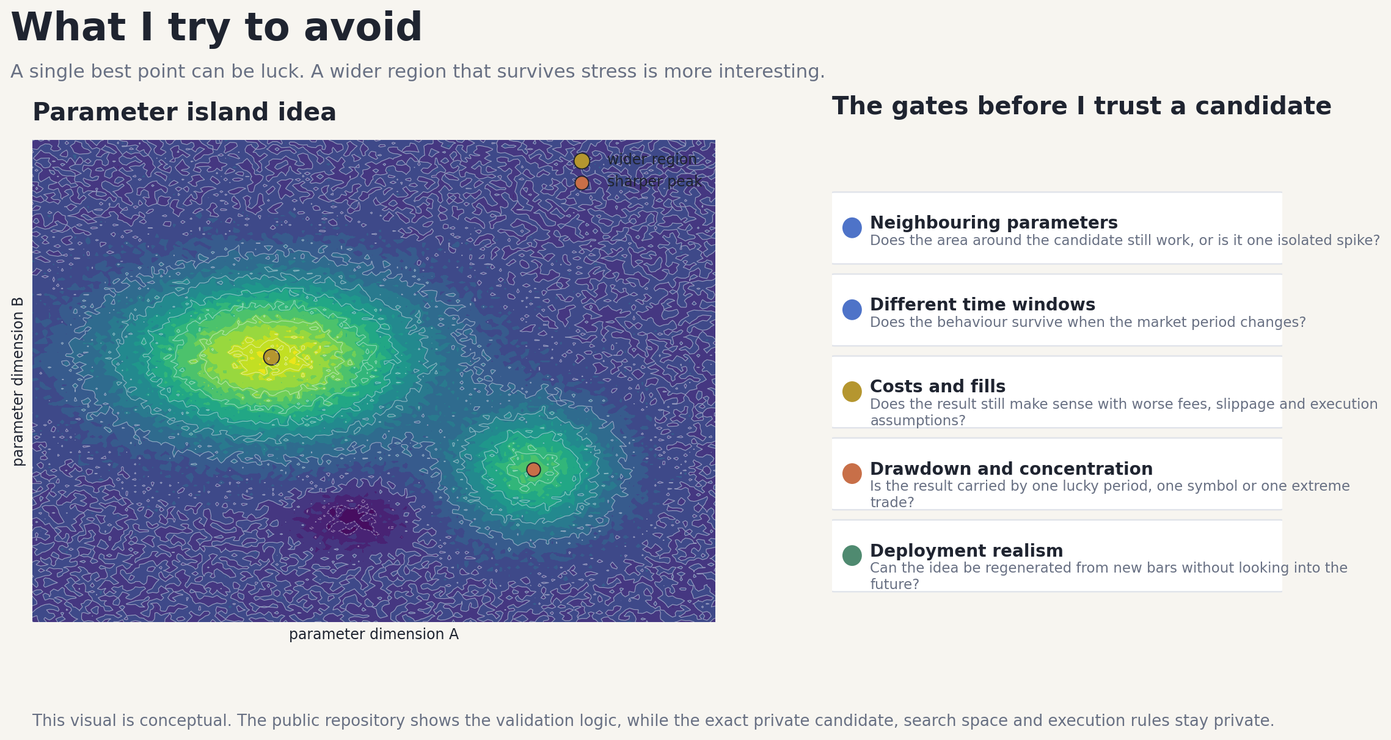
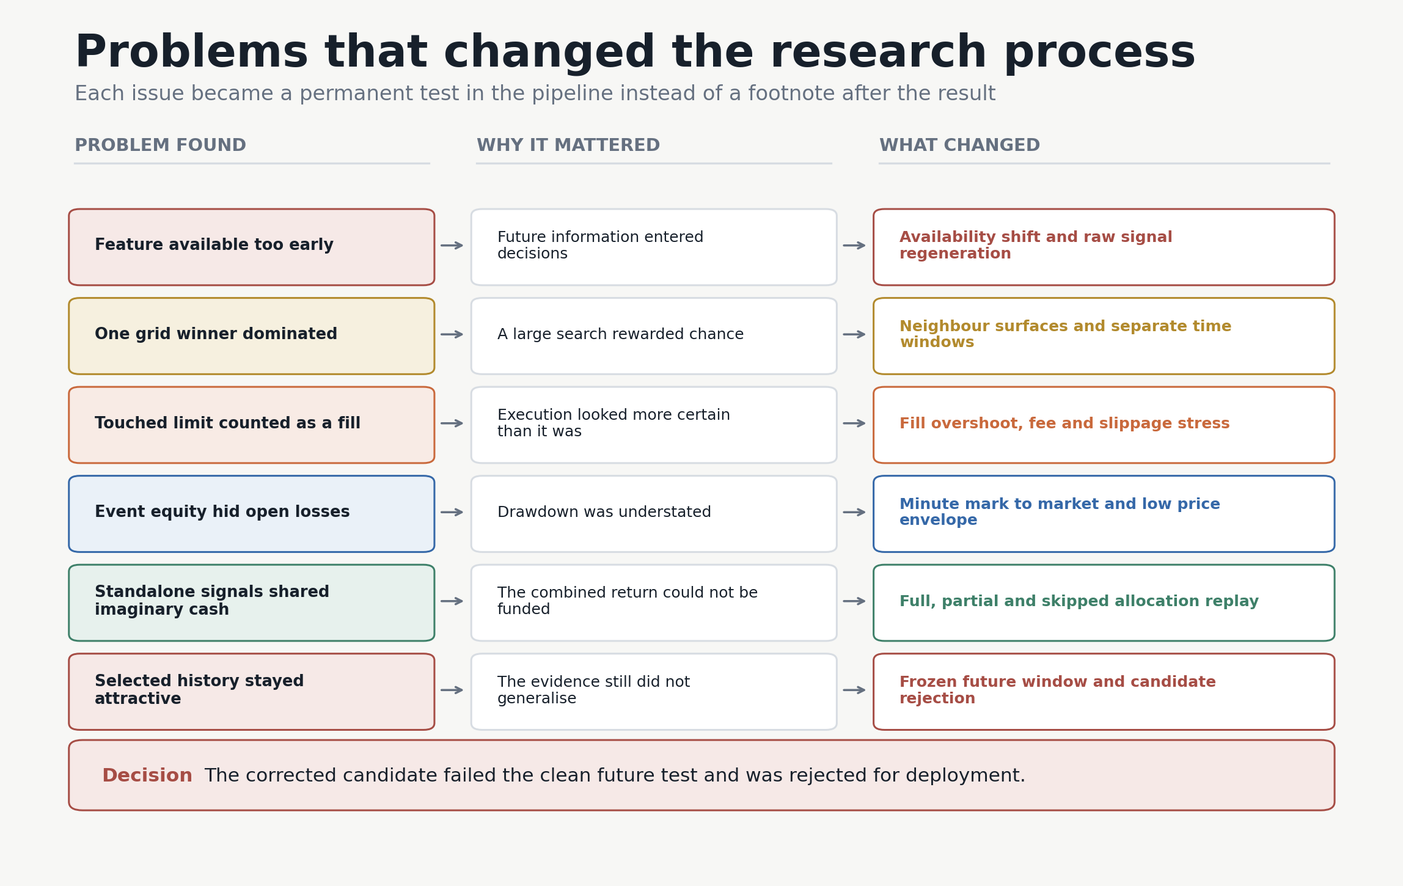
Reframe project around research lessons and scale

diff --git a/tools/build_readme_visuals.py b/tools/build_readme_visuals.py
@@ -1,0 +1,265 @@
+from __future__ import annotations
+
+from pathlib import Path
+from textwrap import fill
+
+import matplotlib.pyplot as plt
+from matplotlib.patches import FancyBboxPatch
+
+
+ROOT = Path(__file__).resolve().parents[1]
+OUTPUT = ROOT / "reports" / "readme_main_showcase"
+
+BG = "#f7f7f5"
+PAPER = "#ffffff"
+INK = "#17202b"
+MUTED = "#657080"
+LINE = "#d7dce2"
+BLUE = "#3568a8"
+BLUE_LIGHT = "#eaf1f8"
+GOLD = "#b28a2d"
+GOLD_LIGHT = "#f6f0df"
+ORANGE = "#c9693c"
+ORANGE_LIGHT = "#f8ebe5"
+GREEN = "#3e8069"
+GREEN_LIGHT = "#e7f1ed"
+RED = "#a64d45"
+RED_LIGHT = "#f6e9e7"
+
+
+def setup() -> None:
+    OUTPUT.mkdir(parents=True, exist_ok=True)
+    plt.rcParams.update(
+        {
+            "font.family": "DejaVu Sans",
+            "figure.facecolor": BG,
+            "axes.facecolor": BG,
+            "text.color": INK,
+        }
+    )
+
+
+def box(ax, x, y, w, h, face=PAPER, edge=LINE, radius=0.012, linewidth=1.2):
+    patch = FancyBboxPatch(
+        (x, y),
+        w,
+        h,
+        boxstyle=f"round,pad=0.004,rounding_size={radius}",
+        transform=ax.transAxes,
+        facecolor=face,
+        edgecolor=edge,
+        linewidth=linewidth,
+    )
+    ax.add_patch(patch)
+    return patch
+
+
+def save(fig, name: str) -> None:
+    fig.savefig(OUTPUT / name, dpi=180, facecolor=BG, bbox_inches="tight", pad_inches=0.18)
+    plt.close(fig)
+
+
+def draw_system_overview() -> None:
+    fig, ax = plt.subplots(figsize=(16, 9))
+    ax.set_xlim(0, 1)
+    ax.set_ylim(0, 1)
+    ax.axis("off")
+
+    ax.text(0.045, 0.935, "Adaptive parameter optimisation research system", fontsize=29, fontweight="bold")
+    ax.text(
+        0.045,
+        0.895,
+        "Selected view of a larger project built around traceable data, causal timing and tests that can reject a candidate",
+        fontsize=13.5,
+        color=MUTED,
+    )
+
+    scale_cards = [
+        ("~500 GB", "research workspace", BLUE, BLUE_LIGHT),
+        ("~5 days", "continuous cloud compute", GOLD, GOLD_LIGHT),
+        ("second and minute data", "multiple markets and timeframes", GREEN, GREEN_LIGHT),
+    ]
+    card_x = [0.045, 0.36, 0.675]
+    for x, (value, label, color, light) in zip(card_x, scale_cards):
+        box(ax, x, 0.775, 0.28, 0.085, face=light, edge=color, radius=0.01)
+        value_size = 16.5 if value == "second and minute data" else 18
+        ax.text(x + 0.018, 0.825, value, fontsize=value_size, fontweight="bold", color=color, va="center")
+        ax.text(x + 0.018, 0.793, label, fontsize=10.5, color=MUTED, va="center")
+
+    stages = [
+        ("DATA", "Official archives\nChecksums and timestamps\nGap and bar validation", BLUE, BLUE_LIGHT),
+        ("SEARCH", "Reusable caches\nDeterministic IDs\nRestartable stages", GOLD, GOLD_LIGHT),
+        ("SIMULATION", "Causal signal timing\nCosts and fill stress\nShared cash replay", ORANGE, ORANGE_LIGHT),
+        ("VALIDATION", "Neighbour surfaces\nSeparate time windows\nRisk and concentration", GREEN, GREEN_LIGHT),
+        ("DECISION", "Frozen configurations\nBurned evaluation periods\nPromote, revise or reject", BLUE, BLUE_LIGHT),
+    ]
+    xs = [0.045, 0.235, 0.425, 0.615, 0.805]
+    for index, (x, stage) in enumerate(zip(xs, stages)):
+        title, detail, color, light = stage
+        box(ax, x, 0.42, 0.15, 0.255, face=PAPER, edge=LINE, radius=0.012)
+        box(ax, x + 0.012, 0.615, 0.126, 0.045, face=light, edge=color, radius=0.008)
+        ax.text(x + 0.075, 0.637, title, fontsize=11, fontweight="bold", color=color, ha="center", va="center")
+        ax.text(x + 0.075, 0.575, detail, fontsize=9.4, color=INK, ha="center", va="top", linespacing=1.65)
+        if index < len(stages) - 1:
+            ax.annotate(
+                "",
+                xy=(xs[index + 1] - 0.008, 0.548),
+                xytext=(x + 0.158, 0.548),
+                xycoords=ax.transAxes,
+                arrowprops=dict(arrowstyle="->", color=MUTED, lw=1.6),
+            )
+
+    ax.text(0.045, 0.35, "The problems that forced the system to change", fontsize=14.5, fontweight="bold")
+    problems = [
+        ("Data gaps", "Invalidate features until a full window exists"),
+        ("Future information", "Shift features to their true availability time"),
+        ("Lucky optima", "Compare surfaces instead of one point"),
+        ("Optimistic fills", "Stress fills, fees and slippage"),
+        ("Imaginary capital", "Replay full, partial and skipped funding"),
+    ]
+    for x, (problem, response) in zip(xs, problems):
+        ax.plot([x + 0.006, x + 0.006], [0.195, 0.302], transform=ax.transAxes, color=ORANGE, lw=3)
+        ax.text(x + 0.018, 0.292, problem, fontsize=11.5, fontweight="bold", va="top")
+        ax.text(x + 0.018, 0.255, fill(response, width=25), fontsize=8.7, color=MUTED, va="top", linespacing=1.35)
+
+    ax.text(
+        0.045,
+        0.105,
+        "The difficult part was not producing a high return. It was making every result traceable, causal and easy to reject when the evidence changed.",
+        fontsize=12.5,
+        color=INK,
+    )
+    save(fig, "06_public_research_loop.png")
+
+
+def draw_problem_map() -> None:
+    fig, ax = plt.subplots(figsize=(16, 10))
+    ax.set_xlim(0, 1)
+    ax.set_ylim(0, 1)
+    ax.axis("off")
+
+    ax.text(0.04, 0.945, "Problems that changed the research process", fontsize=29, fontweight="bold")
+    ax.text(
+        0.04,
+        0.905,
+        "Each issue became a permanent test in the pipeline instead of a footnote after the result",
+        fontsize=13.5,
+        color=MUTED,
+    )
+
+    columns = [(0.04, 0.26, "PROBLEM FOUND"), (0.335, 0.26, "WHY IT MATTERED"), (0.63, 0.33, "WHAT CHANGED")]
+    for x, width, title in columns:
+        ax.text(x, 0.845, title, fontsize=11.5, fontweight="bold", color=MUTED)
+        ax.plot([x, x + width], [0.83, 0.83], transform=ax.transAxes, color=LINE, lw=1.3)
+
+    rows = [
+        ("Feature available too early", "Future information entered decisions", "Availability shift and raw signal regeneration", RED, RED_LIGHT),
+        ("One grid winner dominated", "A large search rewarded chance", "Neighbour surfaces and separate time windows", GOLD, GOLD_LIGHT),
+        ("Touched limit counted as a fill", "Execution looked more certain than it was", "Fill overshoot, fee and slippage stress", ORANGE, ORANGE_LIGHT),
+        ("Event equity hid open losses", "Drawdown was understated", "Minute mark to market and low price envelope", BLUE, BLUE_LIGHT),
+        ("Standalone signals shared imaginary cash", "The combined return could not be funded", "Full, partial and skipped allocation replay", GREEN, GREEN_LIGHT),
+        ("Selected history stayed attractive", "The evidence still did not generalise", "Frozen future window and candidate rejection", RED, RED_LIGHT),
+    ]
+    y_values = [0.745, 0.64, 0.535, 0.43, 0.325, 0.22]
+    for y, row in zip(y_values, rows):
+        problem, impact, change, color, light = row
+        box(ax, 0.04, y - 0.055, 0.26, 0.082, face=light, edge=color, radius=0.008)
+        ax.text(
+            0.055,
+            y - 0.012,
+            fill(problem, width=31),
+            fontsize=10.3,
+            fontweight="bold",
+            color=INK,
+            va="center",
+            linespacing=1.15,
+        )
+        box(ax, 0.335, y - 0.055, 0.26, 0.082, face=PAPER, edge=LINE, radius=0.008)
+        ax.text(0.35, y - 0.012, fill(impact, width=33), fontsize=10.0, color=INK, va="center", linespacing=1.15)
+        box(ax, 0.63, y - 0.055, 0.33, 0.082, face=PAPER, edge=color, radius=0.008)
+        ax.text(
+            0.645,
+            y - 0.012,
+            fill(change, width=43),
+            fontsize=10.0,
+            fontweight="bold",
+            color=color,
+            va="center",
+            linespacing=1.15,
+        )
+        ax.annotate("", xy=(0.328, y - 0.012), xytext=(0.307, y - 0.012), xycoords=ax.transAxes,
+                    arrowprops=dict(arrowstyle="->", color=MUTED, lw=1.4))
+        ax.annotate("", xy=(0.623, y - 0.012), xytext=(0.602, y - 0.012), xycoords=ax.transAxes,
+                    arrowprops=dict(arrowstyle="->", color=MUTED, lw=1.4))
+
+    box(ax, 0.04, 0.07, 0.92, 0.075, face=RED_LIGHT, edge=RED, radius=0.01)
+    ax.text(0.06, 0.107, "Decision", fontsize=12.5, fontweight="bold", color=RED, va="center")
+    ax.text(
+        0.135,
+        0.107,
+        "The corrected candidate failed the clean future test and was rejected for deployment.",
+        fontsize=12.5,
+        color=INK,
+        va="center",
+    )
+    save(fig, "07_public_robustness_gates.png")
+
+
+def draw_audit_path() -> None:
+    fig, ax = plt.subplots(figsize=(16, 7.5))
+    ax.set_xlim(0, 1)
+    ax.set_ylim(0, 1)
+    ax.axis("off")
+
+    ax.text(0.045, 0.92, "Causal audit and decision path", fontsize=29, fontweight="bold")
+    ax.text(
+        0.045,
+        0.865,
+        "Exact reproduction was used as a control. It was not treated as evidence that the original timing was correct.",
+        fontsize=13.5,
+        color=MUTED,
+    )
+
+    stages = [
+        ("1", "Exact reproduction", "PASS", "Recovered original\nbehaviour from raw\nmarket data", GREEN, GREEN_LIGHT),
+        ("2", "Availability audit", "ISSUE FOUND", "A feature appeared\nbefore its inputs\nexisted", RED, RED_LIGHT),
+        ("3", "Causal regeneration", "PASS", "Moved the feature to\nits first valid\ntimestamp", GREEN, GREEN_LIGHT),
+        ("4", "Candidate frozen", "PASS", "No changes after the\nlater window was\nopened", GREEN, GREEN_LIGHT),
+        ("5", "Future only test", "FAIL", "The corrected candidate\nfailed its predefined\ngate", RED, RED_LIGHT),
+        ("6", "Deployment decision", "REJECT", "Research continues\nwithout promoting\nthe candidate", RED, RED_LIGHT),
+    ]
+    xs = [0.042, 0.195, 0.348, 0.501, 0.654, 0.807]
+    y = 0.39
+    ax.plot([0.075, 0.925], [y + 0.19, y + 0.19], transform=ax.transAxes, color=LINE, lw=4, zorder=0)
+    for index, (x, stage) in enumerate(zip(xs, stages)):
+        number, title, status, detail, color, light = stage
+        ax.scatter([x + 0.065], [y + 0.19], transform=ax.transAxes, s=520, color=color, edgecolor=BG, linewidth=3, zorder=3)
+        ax.text(x + 0.065, y + 0.19, number, fontsize=11, fontweight="bold", color=PAPER, ha="center", va="center", zorder=4)
+        box(ax, x, y - 0.09, 0.14, 0.23, face=PAPER, edge=LINE, radius=0.01)
+        ax.text(x + 0.07, y + 0.09, title, fontsize=9.7, fontweight="bold", ha="center", va="center")
+        box(ax, x + 0.03, y + 0.01, 0.08, 0.04, face=light, edge=color, radius=0.007)
+        ax.text(x + 0.07, y + 0.03, status, fontsize=8.6, fontweight="bold", color=color, ha="center", va="center")
+        ax.text(x + 0.07, y - 0.025, detail, fontsize=8.1, color=MUTED, ha="center", va="top", linespacing=1.25)
+
+    box(ax, 0.045, 0.095, 0.905, 0.1, face=BLUE_LIGHT, edge=BLUE, radius=0.01)
+    ax.text(
+        0.065,
+        0.145,
+        "Main lesson: reproducing a backtest proves that the code path can be recovered.\nIt does not prove that the information set was available in real time.",
+        fontsize=11.2,
+        color=INK,
+        va="center",
+        linespacing=1.35,
+    )
+    save(fig, "08_causal_audit_path.png")
+
+
+def main() -> None:
+    setup()
+    draw_system_overview()
+    draw_problem_map()
+    draw_audit_path()
+
+
+if __name__ == "__main__":
+    main()

diff --git a/README.md b/README.md
@@ -1,53 +1,53 @@
-# Adaptive Parameter Optimisation Algorithm
+# Adaptive Parameter Optimisation
 
-This repository is a redacted public view of a private quantitative research project I have been building for months. The private system is about adaptive parameter search, execution aware backtesting and capital allocation across competing signals. This public version is not meant to be a cloneable trading strategy. It is meant to show the research architecture and the level of validation behind the work, while keeping the actual edge private.
+This repository is a selected extract from a larger private quantitative research project I have been working on for several months. The complete workspace now contains roughly 500 GB of raw market data, processed datasets and generated research artifacts. One of the larger search and validation cycles ran for about five days on a high specification cloud VM. I cannot publish the whole workspace, but this extract shows the part that matters most: how the research question developed, what failed, how I found the problems, and what I changed because of them.
 
-The starting point was a simple problem I kept running into: a fixed setup can look good in one market, one volatility regime or one hand picked window, and then become useless as soon as costs, execution or market structure changes. I did not want to keep manually choosing one moving average, one deviation and one exit rule and then overinterpreting the best result. The more interesting question was whether the system could research the market first, map the parameter space, find stable regions, and then reject candidates that only worked because the search process gave them too many chances to get lucky.
+The project started with a simple frustration. Picking one moving average, one entry threshold and one exit rule by hand can produce a convincing backtest, but the result says very little about whether the parameters describe something stable or just one lucky point. I wanted to map the surrounding parameter space, preserve wider regions that remained useful, and test those regions under different periods, costs and execution assumptions. As the search grew, the project stopped being only an optimisation problem. It became a data engineering, causal timing, portfolio accounting and model validation problem as well.
 
-The private implementation has more moving parts than this repository shows. Exact markets, candidate identities, search domains, final parameters, sleeve weights, execution logic and live deployment details are intentionally not public. Those are the parts that would make the research too easy to copy. The public layer focuses on the part I actually want to show: how I think about parameter surfaces, overfitting, execution assumptions, skipped opportunities, capital competition and robustness.
+![Research system overview](reports/readme_main_showcase/06_public_research_loop.png)
 
-![Adaptive parameter research architecture](reports/readme_main_showcase/06_public_research_loop.png)
+## From an idea to a research system
 
-The core idea is parameter island thinking. I do not trust a single best point very much. If a candidate only works at one exact coordinate and collapses around it, that usually says more about the search process than about the market. A wider area of similar results is more interesting because it suggests that the candidate is not just a tiny accident in a high dimensional grid. This is why the project looks at the shape around a candidate, not only the headline return.
+Working with second and minute data across multiple markets, timeframes and candidate families made a naive exhaustive search too expensive and too difficult to audit. The larger runs produced enough intermediate data that I had to treat the research pipeline as a system. Raw archives are checksum verified, timestamps are normalised, price bar invariants and gaps are checked, processed data is stored in Parquet, and reusable timeframe caches keep repeated work manageable. Candidates receive deterministic identities and every serious run writes its configuration and output metadata to a manifest. Long jobs are separated into restartable stages so that a failure near the end does not erase days of compute.
 
-This also changed how I treated the backtest itself. The backtest is not the end of the research. It is one object that has to be attacked from multiple angles. I care about neighbouring parameters, different time windows, worse costs, worse fills, drawdown shape, concentration, and whether the logic could be regenerated from new bars without looking into the future. A clean equity curve is not enough if it cannot survive those questions.
+This was one of the main lessons from the project. Compute scale is only useful when every result can be traced back to the exact data, configuration and assumptions that created it. A five day run that cannot be reproduced is less valuable than a smaller run that can be audited properly.
 
-![Robustness gates](reports/readme_main_showcase/07_public_robustness_gates.png)
-
-The harder part became allocation. Once multiple signals or sleeves exist, the system is no longer only asking whether one signal is good. It has to decide whether that signal is the best use of capital at that moment. A position can be profitable and still block a better opportunity. A new signal can look strong but be less useful than a trade already open. This pushed the project away from isolated strategy testing and toward portfolio replay with skipped opportunities, capital constraints and execution realism included in the research loop.
-
-The public examples below are simplified or older diagnostics. They are included to make the research process visible, not to reveal the current private candidate. The dense surface shows why I care about the geometry of the search space. A surface that contains broad stable regions tells a different story than one sharp peak surrounded by failure.
+Parameter search created a second problem. The best point in a large grid is often the point that benefited most from chance. I therefore stopped treating the optimum as the research object and started looking at the local surface around it. Neighbour support, separate time windows, monthly return distributions, drawdown, concentration and cost sensitivity all became part of the candidate decision. A broad region that behaves similarly is more interesting than a sharp isolated maximum, although it is still only a candidate and not proof.
 
 <p align="center">
-  <img src="reports/dense_parameter_surface_xagusd/XAGUSD_sum_net_pct_dense_contour_map.png" alt="Dense parameter contour map" width="850">
+  <img src="reports/dense_parameter_surface_xagusd/XAGUSD_sum_net_pct_dense_contour_map.png" alt="Dense parameter surface" width="900">
 </p>
 
-There is also an interactive version of the parameter surface here:
+The same surface can be explored in an [interactive three dimensional view](https://romanmski.github.io/Adaptive_Parameter_Optimisation_Algorithm/visuals/xagusd_parameter_surface.html).
 
-[Open the interactive parameter surface](https://romanmski.github.io/Adaptive_Parameter_Optimisation_Algorithm/visuals/xagusd_parameter_surface.html)
+## What went wrong
 
-One of the biggest lessons was that exits and holding time are not secondary details. Some trades were not bad because the original signal was useless. They were bad because the exit logic did not fit the path that followed. Other trades looked good only because the assumed fill was too generous. That is why the diagnostics include actual trade paths, holding windows, take profit behaviour and failure cases instead of only summarising final return.
+The most important error I found was not a crash or a wrong formula. A regime feature was timestamped at the start of an hourly bar even though it used the completed close of that hour. This allowed information from the future to enter the decision process. The original system could be reproduced exactly, which was useful as a control, but exact reproduction did not make it causal. I separated those two questions, shifted the feature to the first time it was actually available, regenerated the signals from raw data, and froze the corrected candidate before looking at later data.
 
-<p align="center">
-  <img src="reports/readme_main_showcase/03_best_vs_worst_actual_trade_story.png" alt="Best and worst trade examples" width="850">
-</p>
+The corrected version still looked strong on selected history, but it failed a clean future window and became weaker under harsher cost assumptions. I rejected it for deployment. I have not made the historical return the headline of this repository because the more useful result was the failure itself. The audit showed that a large backtest can survive code reproduction while still failing causality and forward validation.
 
-I also wanted the research to show where the idea fails. A model that only presents the best market is not very useful. Cross market tests are useful because negative evidence defines the boundary of the system. If the same workflow works in one environment and fails in another, that is information. It tells me whether I am looking at a general process, a market specific effect, or just a lucky pocket.
+![Causal audit and decision path](reports/readme_main_showcase/08_causal_audit_path.png)
 
-<p align="center">
-  <img src="reports/readme_main_showcase/04_cross_market_result_by_symbol.png" alt="Cross market result by symbol" width="850">
-</p>
+Execution assumptions caused another change. A candle high touching a limit price does not prove that the order would have filled. An equity curve updated only at trade events can also hide losses that existed while a position was open. I added fee and slippage stress, stricter limit fill requirements, minute level mark to market reconstruction, a low price risk envelope, and reconciliation between the cash ledger and final equity. These checks made the execution model less flattering and more useful.
 
-The risk diagnostics are there for the same reason. I do not want to judge a candidate by one return number. I want to know how much drawdown it needed, how fragile the profit factor was, how sensitive it was to costs, and whether the result depended too much on one market condition. If I cannot explain why a candidate survived, I do not want to trust it.
+Shared capital created a separate accounting problem. When several signals arrive together, not all of them can receive the capital assumed by their standalone backtests. Some are fully funded, some only partly, and others have to be skipped. Replaying every accepted signal through one cash constrained portfolio showed why adding isolated strategy returns together was wrong and made the opportunity cost of an open position visible.
 
-<p align="center">
-  <img src="reports/readme_main_showcase/05_risk_diagnostics_by_symbol.png" alt="Risk diagnostics by symbol" width="850">
-</p>
+![Validation problems and responses](reports/readme_main_showcase/07_public_robustness_gates.png)
 
-This project became less about finding one impressive backtest and more about building a research process that is harder to fool. The useful work was in turning a messy idea into testable components, building diagnostics around each failure mode, and forcing the system to keep track of what was searched, what was rejected, and what still needs stronger evidence.
+## What changed
 
-The public repository should therefore be read as a research showcase, not a trading product. It demonstrates adaptive parameter search, parameter surface analysis, robustness thinking, execution aware backtesting, trade path diagnostics and capital allocation reasoning. It does not publish the current private strategy, live system, final parameters, selected candidates or execution rules.
+The system now treats data availability and evaluation history as part of the research state. A gap invalidates new signals until a complete feature window has been rebuilt. Once an evaluation period has been inspected, it cannot later be described as a fresh holdout. A change to the logic creates a new candidate identity instead of quietly replacing the old one. Results are broken down by time, market and contribution so that one exceptional period cannot hide a weak base.
 
-This is not financial advice and it is not proof of future profitability. It is a redacted view into an ongoing private quant research project.
+The optimiser can rank candidates and decide where to spend compute, but it does not make the final decision. The final decision uses several views of the same candidate: neighbouring parameters, performance across time, mark to market drawdown, cost and fill stress, concentration, activity, and the future test. Before a serious run, I now try to define what evidence would disqualify the candidate. That makes rejection part of the method rather than something explained away after the result is known.
 
-The public stack is mainly Python, pandas, NumPy, matplotlib, Plotly, parameter surface analysis, backtest diagnostics, stress testing and research visualization.
+## What I learned
+
+The most useful technical work was spread across Python, NumPy, pandas, Numba, Parquet, vectorised transformations, causal resampling, deterministic configuration hashing, run manifests, cloud compute, backtest engineering, portfolio cash accounting, mark to market risk, stress testing and research visualisation. The harder lesson was that complexity is not the same as quality. A more complicated model can create more ways to be wrong, and a larger search can create more convincing false winners.
+
+I also learned to separate four things that are easy to mix together: the idea I want to test, the behaviour that is actually implemented, the result observed in a particular run, and the evidence required before deployment. Keeping those layers separate made it possible to reproduce an old result, find a causal defect in it, correct the defect, and then accept that the corrected candidate failed its future test.
+
+The remaining work is clear. Lower level order book replay, stronger controls for repeated testing, and longer paper trading windows using only future data still need more evidence. This repository does not claim that the research problem is solved. It shows how the project became more rigorous after the first attractive answers turned out to be incomplete.
+
+The repository contains selected parameter surfaces, validation diagrams, older trade diagnostics and an interactive visual. The overview figures can be regenerated with the small Matplotlib builder in `tools`. The full datasets and research system are not included because of their size and because the work is still ongoing.
+
+This is an ongoing research project, not a trading recommendation.

diff --git a/docs/index.md b/docs/index.md
@@ -1,5 +1,5 @@
-# Adaptive parameter research visuals
+# Adaptive parameter research visual
 
-This small GitHub Pages site hosts the public interactive visual from the adaptive parameter research project. The repository is a redacted portfolio version of a larger private research system, so the exact private candidate and execution rules are intentionally not included.
+This page contains the interactive parameter surface used in the public extract of my larger quantitative research project. It is one diagnostic from the parameter search and can be rotated, zoomed and inspected directly.
 
 [Open the interactive parameter surface](visuals/xagusd_parameter_surface.html)
